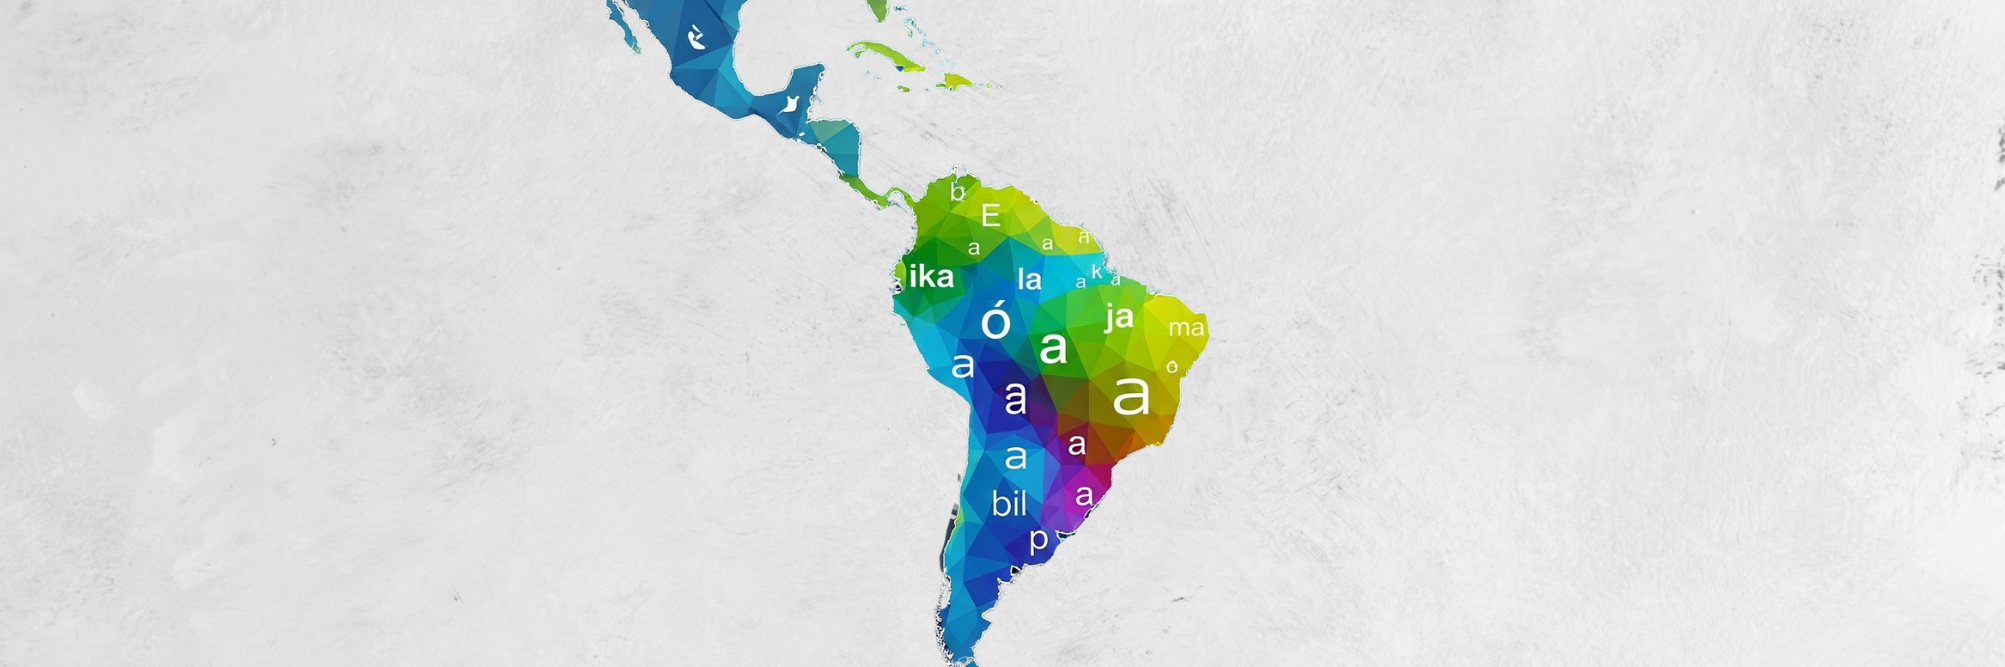
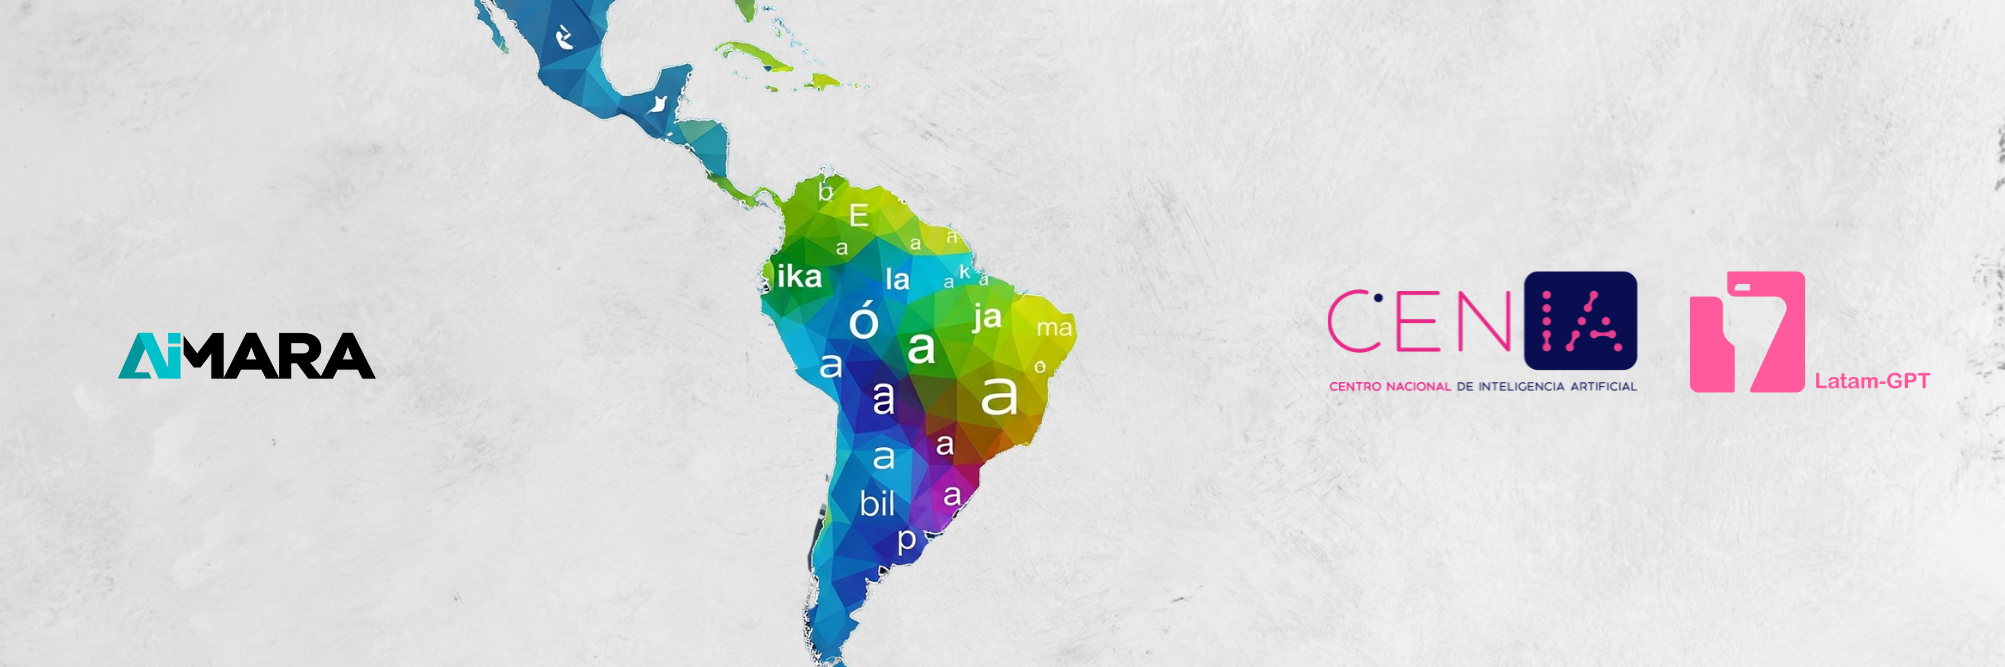
convenio con artificio

Changed region(s): [[0.2165, 0.0, 0.6185, 1.0], [0.6494, 0.3898, 0.9586, 0.5997], [0.0618, 0.4798, 0.1855, 0.5697]]

diff --git a/src/data/blogs.js b/src/data/blogs.js
@@ -22,7 +22,7 @@ export const BLOGS = [
       "../../blogs/latamgpt3.png",
       "../../blogs/latamgpt5.png"
     ],
-    texto_blog: "We are proud to announce a historic specific collaboration agreement between AIMARA LAB and the National Center for Artificial Intelligence of Chile (CENIA). This five-year alliance marks a pivotal moment for AI in our region, uniting two key institutions to tackle a monumental challenge: creating a foundational Large Language Model (LLM) for Latin America.<br><br>The project, named the \"Gran Modelo del Lenguaje (LLM) Latinoamericano,\" is led by CENIA and aims to develop an open-source large language model that will serve as a cornerstone for technological and scientific advancement across the region.<br><br><strong>A Collaborative Effort for Regional Advancement</strong><br><br>This project is a testament to the power of collaboration. Both institutions will bring their unique strengths to the table to ensure the success of the Latin American LLM. <br><br><strong>AIMARA LAB's Commitments include:</strong><br><br><ul><li>- Supporting the collection of open data in various domains of Latin American Spanish.</li><li>- Providing technical assistance during the training process of the Large Language Models.</li><li>- Promoting the exchange of academic personnel, including professors and researchers, to foster shared knowledge.</li></ul><br><strong>CENIA's Commitments include:</strong><br><br><ul><li>- Providing all necessary computational power and equipment for the training, testing, and alignment of the LLM.</li><li>- Managing all legal aspects related to data governance, including licensing and availability.</li><li>- Ensuring access to all necessary technical resources for the project's development.</li></ul><br><strong>Openness as a Core Principle</strong><br><br>A fundamental pillar of this project is the commitment to openness. CENIA will guarantee that the license for all elements of the Latin American LLM—including the data, architecture, and final model weights—is as open as possible, aiming for standards like CC-BY 4.0 or MIT. This ensures that the resulting technology will be a public good, accessible to researchers, developers, and innovators throughout Latin America.<br><br>The final product will be a neural network trained on Spanish language data, including its architecture and final weights.<br><br><strong>A New Chapter for AI in Latin America</strong><br><br>We are honored to join forces with CENIA on this transformative initiative. This agreement is more than a technical project; it is a shared vision to build technological sovereignty and empower our regional scientific community. Together, we are laying the groundwork for a future where AI is developed by and for Latin America.",
+    texto_blog: "We are proud to announce a historic specific collaboration agreement between AIMARA LAB and the National Center for Artificial Intelligence of Chile (CENIA). This five-year alliance marks a pivotal moment for AI in our region, uniting two key institutions to tackle a monumental challenge: creating a foundational Large Language Model (LLM) for Latin America.<br><br>The project, named the <strong>Latam GPT</strong> \"Gran Modelo del Lenguaje (LLM) Latinoamericano,\" is led by CENIA and aims to develop an open-source large language model that will serve as a cornerstone for technological and scientific advancement across the region.<br><br><strong>A Collaborative Effort for Regional Advancement</strong><br><br>This project is a testament to the power of collaboration. Both institutions will bring their unique strengths to the table to ensure the success of the Latin American LLM. <br><br><strong>AIMARA LAB's Commitments include:</strong><br><br><ul><li>- Supporting the collection of open data in various domains of Latin American Spanish.</li><li>- Providing technical assistance during the training process of the Large Language Models.</li><li>- Promoting the exchange of academic personnel, including professors and researchers, to foster shared knowledge.</li></ul><br><strong>CENIA's Commitments include:</strong><br><br><ul><li>- Providing all necessary computational power and equipment for the training, testing, and alignment of the LLM.</li><li>- Managing all legal aspects related to data governance, including licensing and availability.</li><li>- Ensuring access to all necessary technical resources for the project's development.</li></ul><br><strong>Openness as a Core Principle</strong><br><br>A fundamental pillar of this project is the commitment to openness. CENIA will guarantee that the license for all elements of the Latin American LLM—including the data, architecture, and final model weights—is as open as possible, aiming for standards like CC-BY 4.0 or MIT. This ensures that the resulting technology will be a public good, accessible to researchers, developers, and innovators throughout Latin America.<br><br>The final product will be a neural network trained on Spanish language data, including its architecture and final weights.<br><br><strong>A New Chapter for AI in Latin America</strong><br><br>We are honored to join forces with CENIA on this transformative initiative. This agreement is more than a technical project; it is a shared vision to build technological sovereignty and empower our regional scientific community. Together, we are laying the groundwork for a future where AI is developed by and for Latin America.",
     enlace_blog: {
       "url": "/blogs/aimara-cenia-llm-alliance",
       "label": "Read more..."
